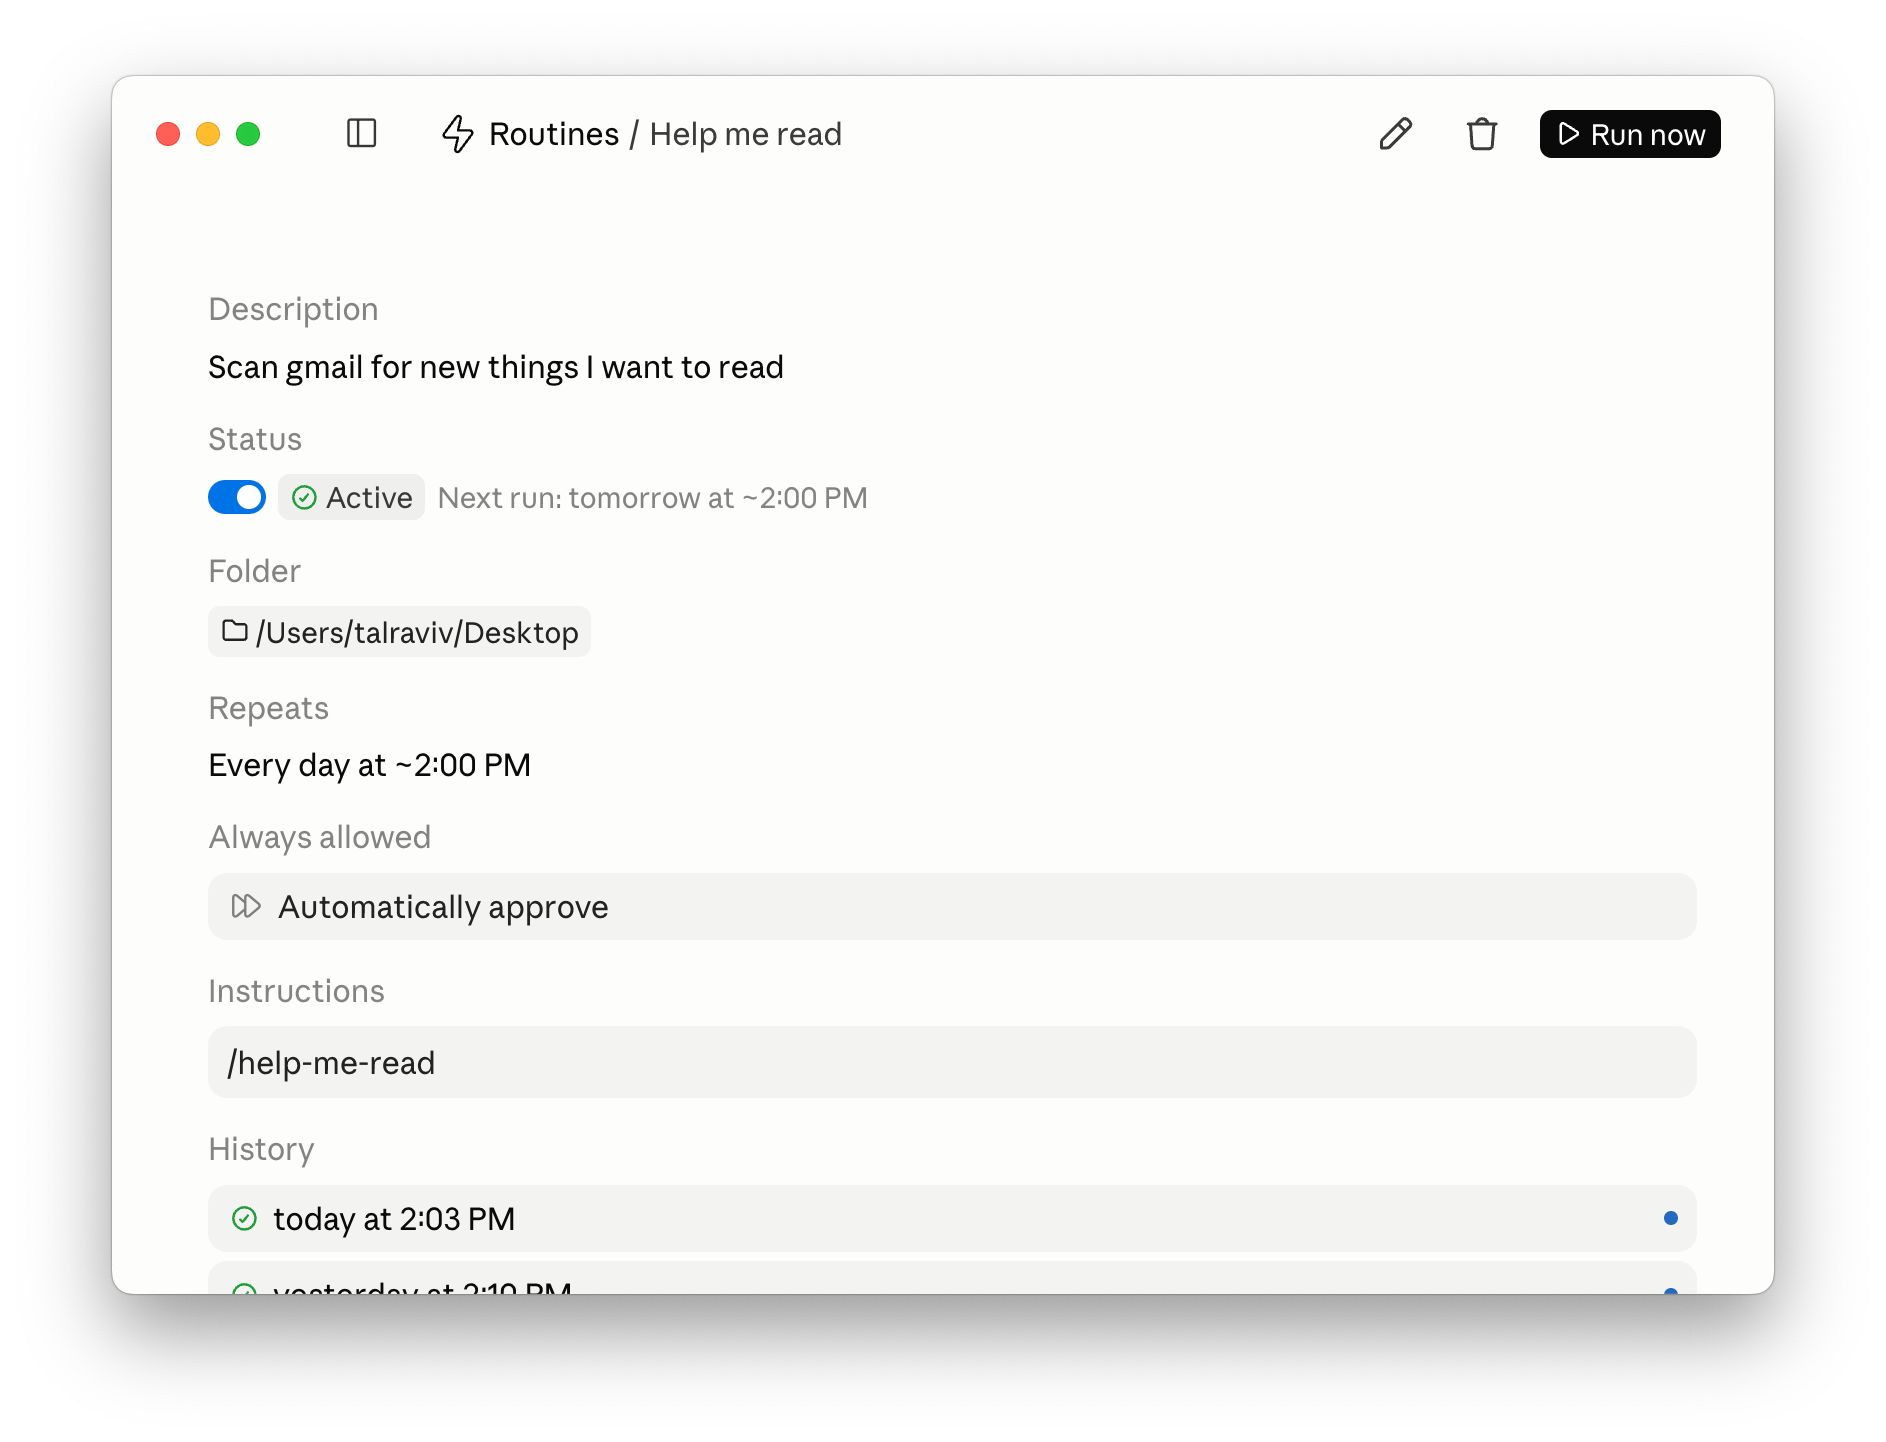
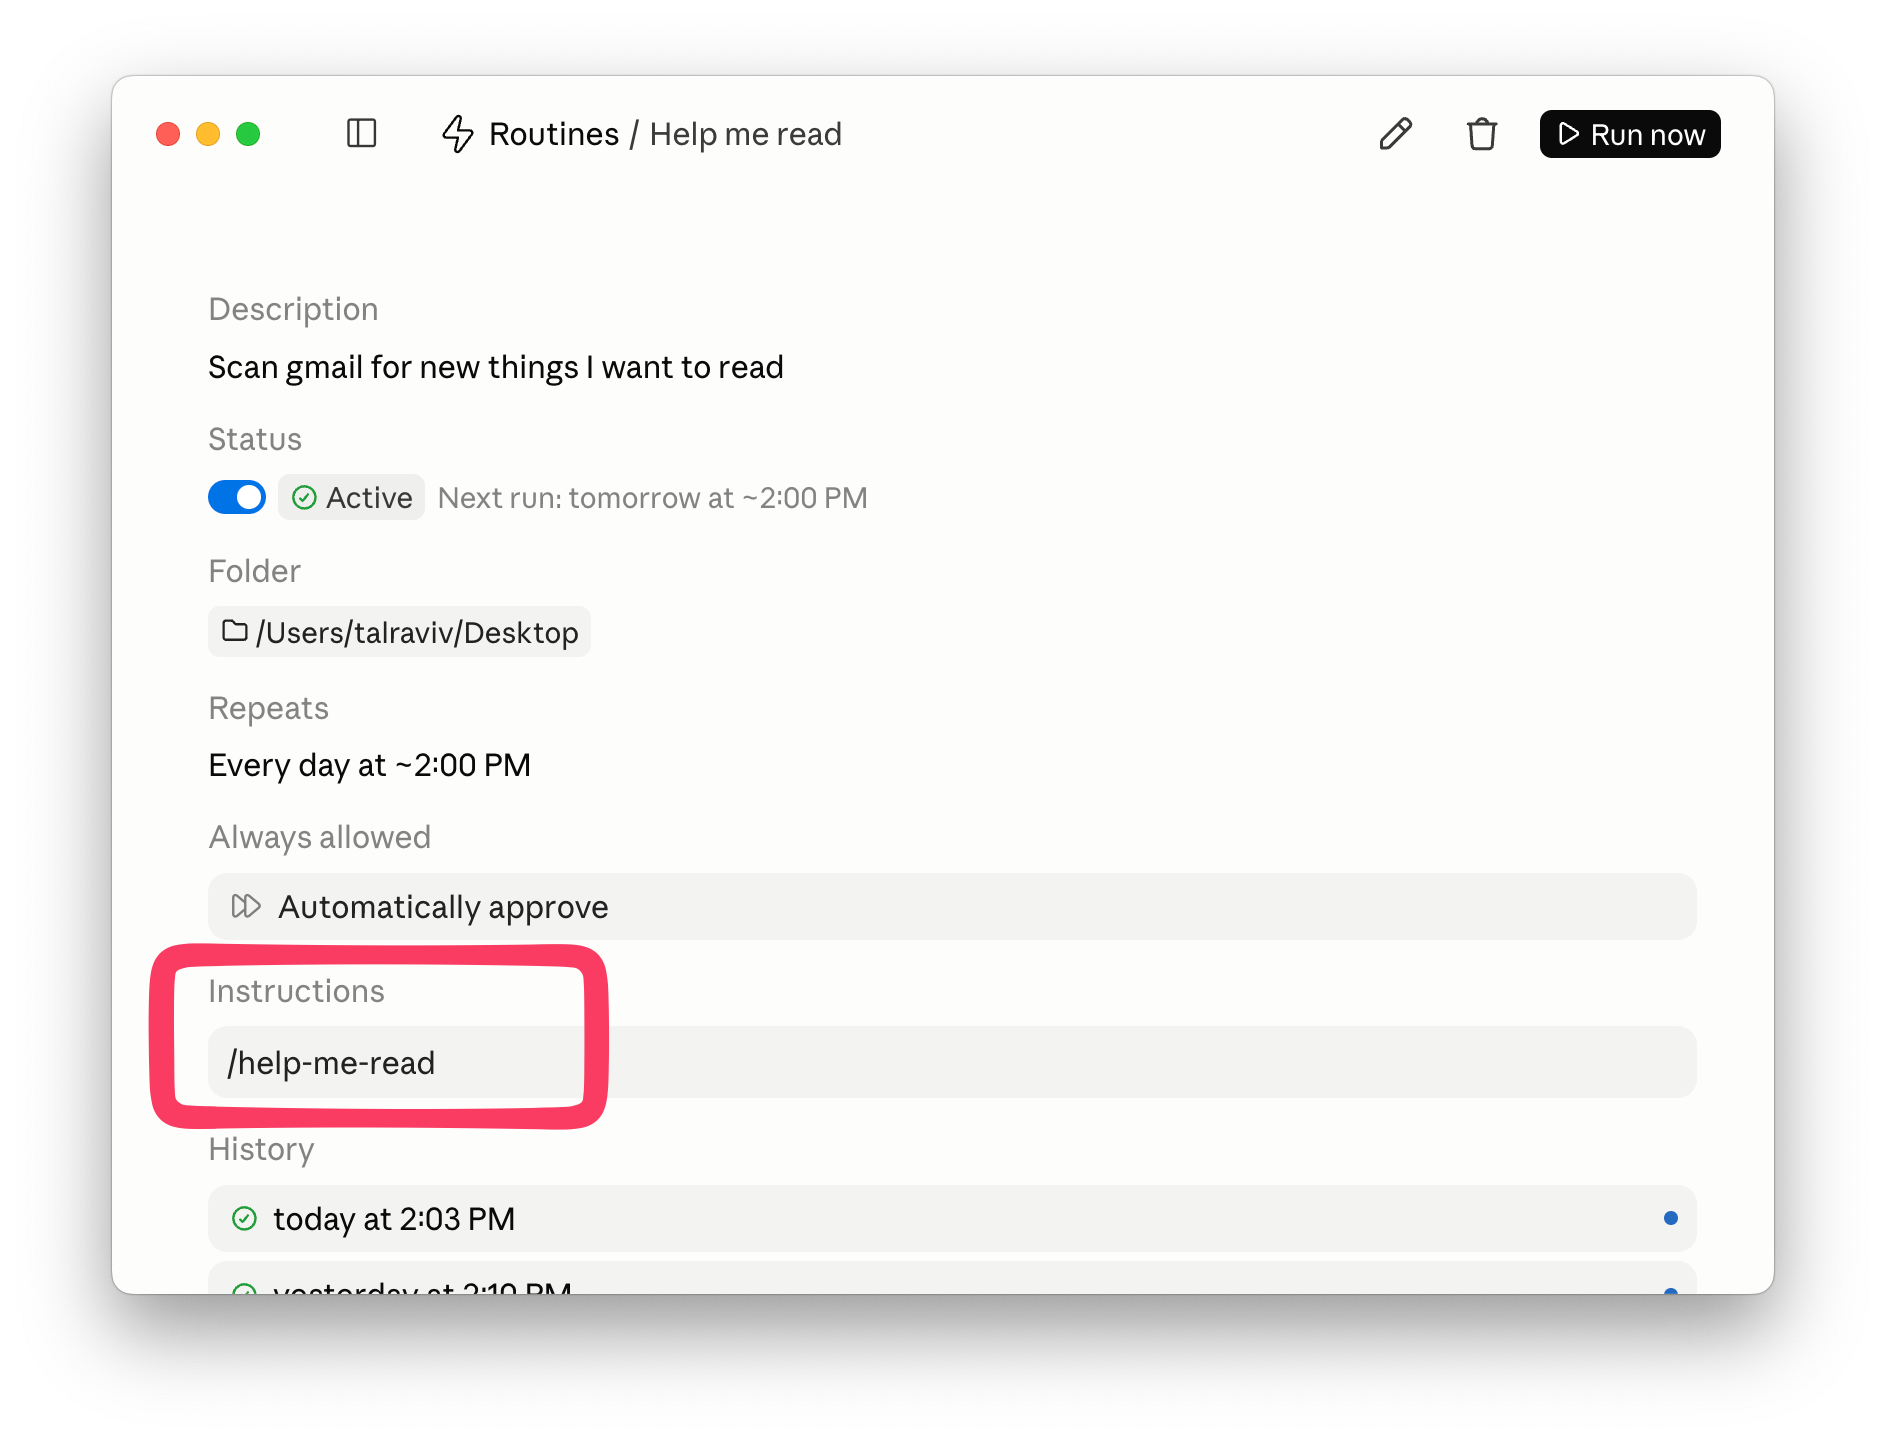
README: annotated routine screenshot (highlight on the Instructions field)

Changed region(s): [[0.0615, 0.6553, 0.3383, 0.8114]]

diff --git a/README.md b/README.md
@@ -101,7 +101,7 @@ entire prompt of the scheduled task is literally:
 /help-me-read
 ```
 
-Here's the author's real daily routine — note the Instructions field:
+Here's the author's real daily routine:
 
 ![a daily scheduled task whose entire instruction is /help-me-read](docs/routine.png)
 